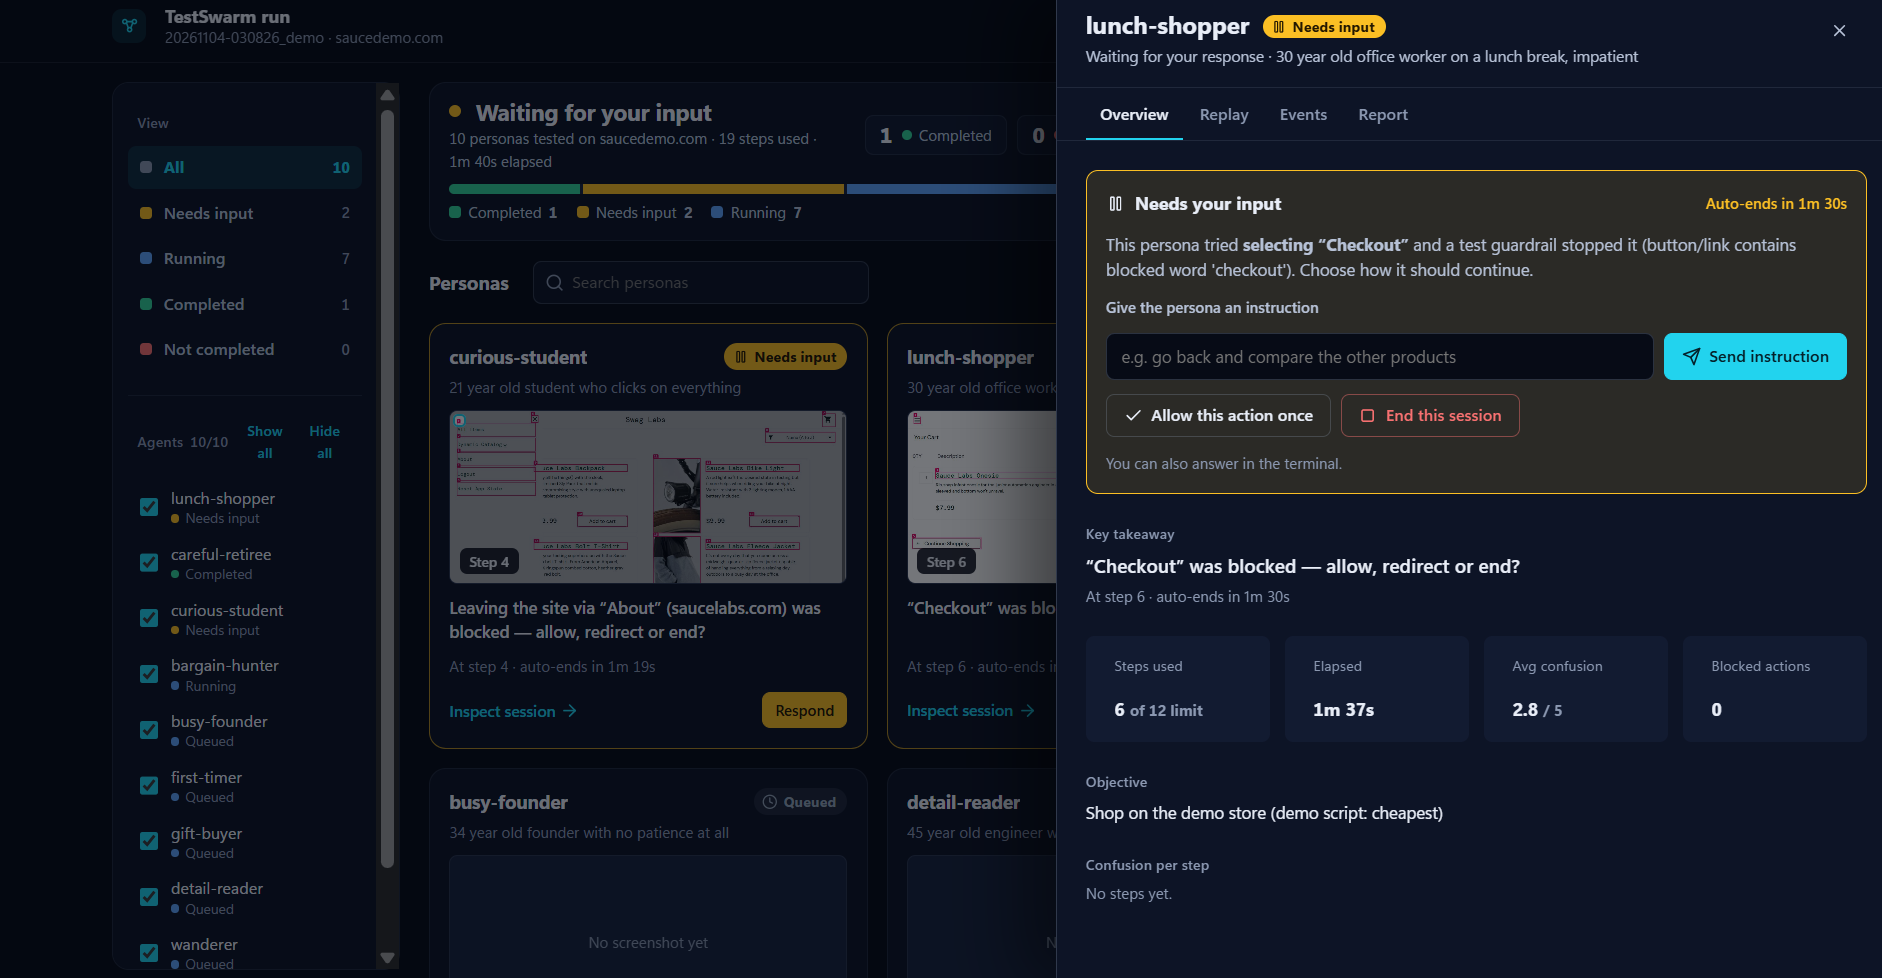
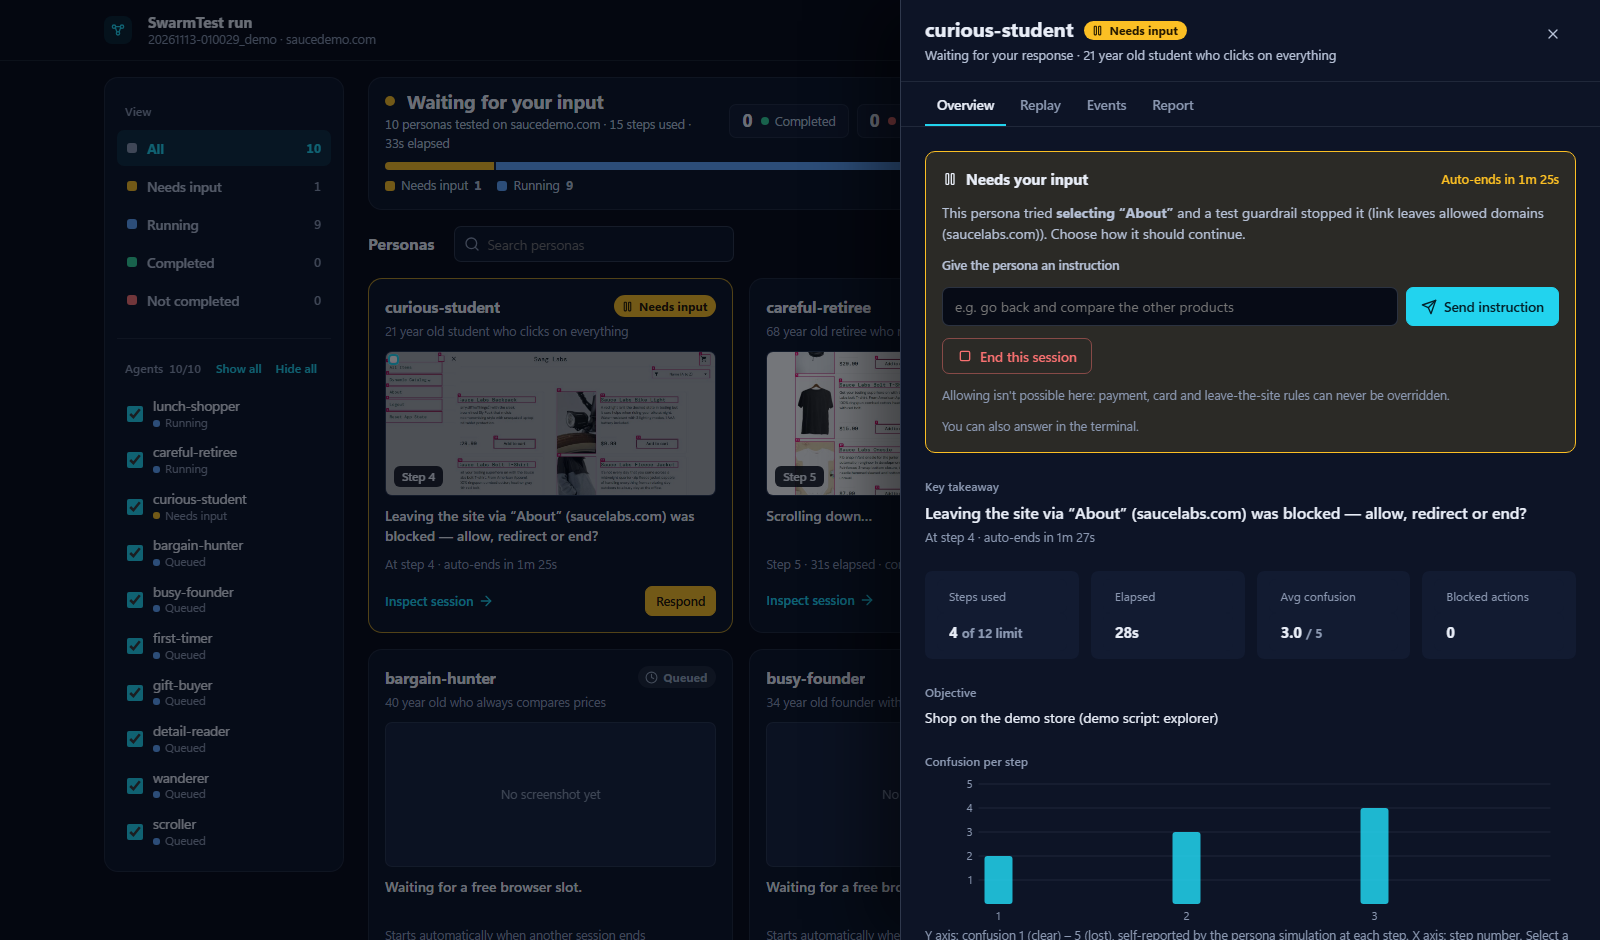
Rename project to SwarmTest
- Python package testswarm/ -> swarmtest/ (commands: python -m swarmtest ...)
- Login placeholder prefix TESTSWARM_SECRET_ -> SWARMTEST_SECRET_
- README, logo, dashboard, config comments and screenshots updated

diff --git a/swarmtest/dashboard.html b/swarmtest/dashboard.html
@@ -3,7 +3,7 @@
 <head>
 <meta charset="utf-8">
 <meta name="viewport" content="width=device-width, initial-scale=1">
-<title>TestSwarm</title>
+<title>SwarmTest</title>
 <style>
 /* ===================== tokens: navy base, cyan accent ===================== */
 :root {
@@ -331,7 +331,7 @@ select { width: auto; padding: 6px 10px; }
 <header>
   <div class="wrap hbar">
     <span class="mark" aria-hidden="true"><svg class="i"><use href="#i-swarm"/></svg></span>
-    <div class="hname"><b>TestSwarm run</b><span id="runMeta">Loading…</span></div>
+    <div class="hname"><b>SwarmTest run</b><span id="runMeta">Loading…</span></div>
     <div class="hright">
       <span class="conn" id="conn"><i></i><span id="connT">Connected</span></span>
       <button class="btn" type="button" id="activityBtn" aria-haspopup="dialog">
@@ -566,7 +566,7 @@ function renderSummary() {
   setText($("#runState"), state); $("#stateDot").style.background = color;
   setText($("#stateSub"), `${A.length} persona${A.length === 1 ? "" : "s"}${hosts ? ` tested on ${hosts}` : ""} · ${steps} steps used · ${fmt(elapsed)}${complete ? " total" : " elapsed"}`);
   setText($("#runMeta"), `${S.meta.run_name || "live run"}${hosts ? ` · ${hosts}` : ""}`);
-  document.title = input ? `(${input}) Needs input · TestSwarm` : `${state} · TestSwarm`;
+  document.title = input ? `(${input}) Needs input · SwarmTest` : `${state} · SwarmTest`;
   setText($("#nCompleted"), String(completed)); setText($("#nNotCompleted"), String(notCompleted));
   setText($("#nInput"), String(input)); setText($("#nRunning"), String(running));
   const is = $("#inputStat"); is.disabled = !input; is.classList.toggle("hot", !!input); $("#inputCta").hidden = !input;
@@ -791,7 +791,7 @@ async function answer(id, text, btns) {
   try { const r = await fetch("/api/answer", { method: "POST", headers: { "Content-Type": "application/json", "X-TS-Token": TOKEN },
                                                 body: JSON.stringify({ id, text }) });
         if (!r.ok) { alert("This request was already answered or has timed out."); btns.forEach(b => b.disabled = false); } }
-  catch { alert("Lost connection to TestSwarm."); btns.forEach(b => b.disabled = false); }
+  catch { alert("Lost connection to SwarmTest."); btns.forEach(b => b.disabled = false); }
   await refresh(); await loadDetail(); $("#dBody")._h = null; renderDrawer();
 }
 

diff --git a/swarmtest/cli.py b/swarmtest/cli.py
@@ -1,11 +1,11 @@
 """Command line.
 
-    python -m testswarm list                         show agents in personas.yaml
-    python -m testswarm check                        validate config.yaml + personas.yaml
-    python -m testswarm run --agent retired-teacher  run one agent
-    python -m testswarm run -a shopper -a retired-teacher   run several in parallel
-    python -m testswarm run --all                    run every agent in personas.yaml
-    python -m testswarm run --agent retired-teacher --url https://staging.myapp.com
+    python -m swarmtest list                         show agents in personas.yaml
+    python -m swarmtest check                        validate config.yaml + personas.yaml
+    python -m swarmtest run --agent retired-teacher  run one agent
+    python -m swarmtest run -a shopper -a retired-teacher   run several in parallel
+    python -m swarmtest run --all                    run every agent in personas.yaml
+    python -m swarmtest run --agent retired-teacher --url https://staging.myapp.com
 """
 
 from __future__ import annotations
@@ -20,7 +20,7 @@ import typer
 from rich.console import Console
 from rich.table import Table
 
-from testswarm.config import (
+from swarmtest.config import (
     ConfigError,
     has_api_credentials,
     load_config,
@@ -28,10 +28,10 @@ from testswarm.config import (
     load_personas,
     load_secrets,
 )
-from testswarm.swarm import run_agents
+from swarmtest.swarm import run_agents
 
 app = typer.Typer(add_completion=False, no_args_is_help=True,
-                  help="TestSwarm: AI persona agents that test your web app in a real browser.")
+                  help="SwarmTest: AI persona agents that test your web app in a real browser.")
 console = Console()
 
 CONFIG_OPT = typer.Option("config.yaml", "--config", help="Path to config.yaml")
@@ -91,7 +91,7 @@ def run(
 ) -> None:
     """Run one or more agents against the website."""
     if not agent and not all_agents:
-        _fail("Choose agents: --agent <name> (repeatable) or --all   (see: python -m testswarm list)")
+        _fail("Choose agents: --agent <name> (repeatable) or --all   (see: python -m swarmtest list)")
 
     load_env()
     try:
@@ -131,7 +131,7 @@ def demo(
     config: Path = CONFIG_OPT,
 ) -> None:
     """Simulate up to 10 agents on saucedemo.com with a scripted fake AI. NO API calls, no cost."""
-    from testswarm.demo import run_demo
+    from swarmtest.demo import run_demo
     try:
         cfg = load_config(config)
     except ConfigError as e:

diff --git a/swarmtest/demo.py b/swarmtest/demo.py
@@ -3,10 +3,10 @@
 NO Claude API calls, no credits. Everything else is real: real browsers, real clicks,
 real guardrails, real pauses, real dashboard, real reports (with fake analysis).
 
-    python -m testswarm demo                 # 10 agents
-    python -m testswarm demo --agents 3
-    python -m testswarm demo --headless      # no browser windows, just the dashboard
-    python -m testswarm demo --parallel 3    # at most 3 browsers at once (less RAM)
+    python -m swarmtest demo                 # 10 agents
+    python -m swarmtest demo --agents 3
+    python -m swarmtest demo --headless      # no browser windows, just the dashboard
+    python -m swarmtest demo --parallel 3    # at most 3 browsers at once (less RAM)
 """
 
 from __future__ import annotations
@@ -21,12 +21,12 @@ from typing import Any
 
 from rich.console import Console
 
-from testswarm.agent import DECISION_SCHEMA
-from testswarm.config import AgentSpec, Config
-from testswarm.llm import LLM
-from testswarm.persona import PROFILE_SCHEMA
-from testswarm.report import REPORT_SCHEMA
-from testswarm.swarm import run_agents
+from swarmtest.agent import DECISION_SCHEMA
+from swarmtest.config import AgentSpec, Config
+from swarmtest.llm import LLM
+from swarmtest.persona import PROFILE_SCHEMA
+from swarmtest.report import REPORT_SCHEMA
+from swarmtest.swarm import run_agents
 
 DEMO_URL = "https://www.saucedemo.com"
 DEMO_SECRETS = {"USERNAME": "standard_user", "PASSWORD": "secret_sauce"}  # public demo login shown on the site

diff --git a/swarmtest/swarm.py b/swarmtest/swarm.py
@@ -13,11 +13,11 @@ from typing import Any
 
 from rich.console import Console
 
-from testswarm.agent import Agent
-from testswarm.config import AgentSpec, Config
-from testswarm.dashboard import Dashboard
-from testswarm.report import write_report
-from testswarm.supervisor import Supervisor
+from swarmtest.agent import Agent
+from swarmtest.config import AgentSpec, Config
+from swarmtest.dashboard import Dashboard
+from swarmtest.report import write_report
+from swarmtest.supervisor import Supervisor
 
 STAGGER_S = 1.5  # seconds between agent starts
 
@@ -121,7 +121,7 @@ def write_summary(base_dir: Path, names: list[str]) -> Path:
             sections += [f"- **Fix (high):** {r['recommendation']}" for r in recs]
             sections.append("")
 
-    md = ["# TestSwarm: swarm summary", "",
+    md = ["# SwarmTest: swarm summary", "",
           f"{len(names)} agents · {totals['steps']} steps · {totals['blocked']} blocked actions · "
           f"{totals['tokens']:,} tokens", "",
           "| Agent | Status | Objective achieved | Usability | Steps | Avg confusion | Blocked | Tokens |",

diff --git a/swarmtest/agent.py b/swarmtest/agent.py
@@ -15,13 +15,13 @@ from urllib.parse import urlparse
 
 from pydantic import BaseModel, ValidationError
 
-from testswarm.browser import BrowserSession, Observation, PageStuck
-from testswarm.config import AgentSpec, Config
-from testswarm.guardrails import Guard
-from testswarm.llm import LLM, LLMError, LLMStopped
-from testswarm.logger import RunLogger
-from testswarm.persona import expand_persona, profile_to_text, save_profile
-from testswarm.supervisor import Supervisor
+from swarmtest.browser import BrowserSession, Observation, PageStuck
+from swarmtest.config import AgentSpec, Config
+from swarmtest.guardrails import Guard
+from swarmtest.llm import LLM, LLMError, LLMStopped
+from swarmtest.logger import RunLogger
+from swarmtest.persona import expand_persona, profile_to_text, save_profile
+from swarmtest.supervisor import Supervisor
 
 ActionType = Literal["click", "type", "scroll", "go_back", "navigate", "wait", "note", "give_up", "finish"]
 EMOTIONS = ["happy", "neutral", "curious", "confused", "frustrated", "anxious", "bored", "impressed", "annoyed"]

diff --git a/swarmtest/config.py b/swarmtest/config.py
@@ -16,7 +16,7 @@ import yaml
 from dotenv import load_dotenv
 from pydantic import BaseModel, ConfigDict, Field, ValidationError, field_validator, model_validator
 
-SECRET_PREFIX = "TESTSWARM_SECRET_"
+SECRET_PREFIX = "SWARMTEST_SECRET_"
 Effort = Literal["low", "medium", "high", "xhigh", "max"]
 
 
@@ -191,7 +191,7 @@ class PersonasFile(_Strict):
 
 def _read_yaml(path: Path) -> dict:
     if not path.exists():
-        raise ConfigError(f"Can't find {path}. Are you running from the TestSwarm folder?")
+        raise ConfigError(f"Can't find {path}. Are you running from the SwarmTest folder?")
     try:
         data = yaml.safe_load(path.read_text(encoding="utf-8")) or {}
     except yaml.YAMLError as e:
@@ -237,7 +237,7 @@ def has_api_credentials() -> bool:
 
 
 def load_secrets() -> dict[str, str]:
-    """TESTSWARM_SECRET_PASSWORD=abc  ->  {"PASSWORD": "abc"}
+    """SWARMTEST_SECRET_PASSWORD=abc  ->  {"PASSWORD": "abc"}
     The agent only ever sees "{{PASSWORD}}"; values stay in this process."""
     return {
         key[len(SECRET_PREFIX):]: value

diff --git a/swarmtest/logger.py b/swarmtest/logger.py
@@ -17,7 +17,7 @@ from rich.panel import Panel
 from rich.table import Table
 from rich.text import Text
 
-from testswarm.guardrails import Guard
+from swarmtest.guardrails import Guard
 
 CONFUSION_COLORS = {1: "green", 2: "green", 3: "yellow", 4: "dark_orange", 5: "red"}
 AGENT_COLORS = ["cyan", "magenta", "bright_blue", "yellow", "green", "bright_red",
@@ -72,7 +72,7 @@ class RunLogger:
         t.add_row("[bold]Safe mode[/]", safe_mode)
         t.add_row("[bold]Login placeholders[/]", ", ".join("{{" + s + "}}" for s in secrets) or "none")
         t.add_row("[bold]Run folder[/]", escape(str(self.run_dir)))
-        self.console.print(Panel(t, title=self._title("TestSwarm agent starting"), border_style="cyan"))
+        self.console.print(Panel(t, title=self._title("SwarmTest agent starting"), border_style="cyan"))
 
     def phase(self, phase: str, step: int, **extra: Any) -> None:
         """Live status for the dashboard only (not saved, not printed): observing / thinking / acting."""

diff --git a/swarmtest/report.py b/swarmtest/report.py
@@ -11,10 +11,10 @@ import json
 from pathlib import Path
 from typing import Any
 
-from testswarm.agent import RunResult
-from testswarm.browser import TechIssues
-from testswarm.guardrails import Guard
-from testswarm.llm import LLM, LLMError
+from swarmtest.agent import RunResult
+from swarmtest.browser import TechIssues
+from swarmtest.guardrails import Guard
+from swarmtest.llm import LLM, LLMError
 
 SEVERITY = {"type": "string", "enum": ["high", "medium", "low"]}
 
@@ -125,7 +125,7 @@ def _cell(text: str, n: int = 140) -> str:
 def _markdown(r: RunResult, a: dict[str, Any] | None, error: str, issues: TechIssues, guard: Guard) -> str:
     p = r.profile
     who = p.get("display_name") or r.agent
-    out = [f"# TestSwarm report: {r.agent}", ""]
+    out = [f"# SwarmTest report: {r.agent}", ""]
     out += ["| | |", "|---|---|",
             f"| **Website** | {r.url} |",
             f"| **Persona** | {who}: {_cell(p.get('original_description', ''), 200)} |",

diff --git a/swarmtest/dashboard.py b/swarmtest/dashboard.py
@@ -23,7 +23,7 @@ from pathlib import Path
 from typing import Any
 from urllib.parse import parse_qs, urlparse
 
-from testswarm.supervisor import Supervisor
+from swarmtest.supervisor import Supervisor
 
 SHOT_RE = re.compile(r"^step_\d{1,4}\.jpg$")
 BLOCK_REASON_RE = re.compile(r"BLOCKED by safety rule: (.*?)(?:\. The human supervisor|\. Session ended|$)")

diff --git a/swarmtest/guardrails.py b/swarmtest/guardrails.py
@@ -14,7 +14,7 @@ from datetime import datetime
 from typing import Any
 from urllib.parse import urlparse
 
-from testswarm.config import Guardrails
+from swarmtest.config import Guardrails
 
 # Requests that only read data. In strict mode everything else is blocked.
 SAFE_METHODS = {"GET", "HEAD", "OPTIONS"}

diff --git a/swarmtest/persona.py b/swarmtest/persona.py
@@ -10,8 +10,8 @@ from typing import Any
 
 import yaml
 
-from testswarm.config import AgentSpec
-from testswarm.llm import LLM, LLMError, LLMStopped
+from swarmtest.config import AgentSpec
+from swarmtest.llm import LLM, LLMError, LLMStopped
 
 LEVELS = ["very low", "low", "medium", "high", "very high"]
 

diff --git a/swarmtest/browser.py b/swarmtest/browser.py
@@ -29,8 +29,8 @@ from playwright.async_api import (
     async_playwright,
 )
 
-from testswarm.config import BrowserSettings
-from testswarm.guardrails import Guard
+from swarmtest.config import BrowserSettings
+from swarmtest.guardrails import Guard
 
 MAX_ELEMENTS = 120
 MAX_ISSUES = 200
